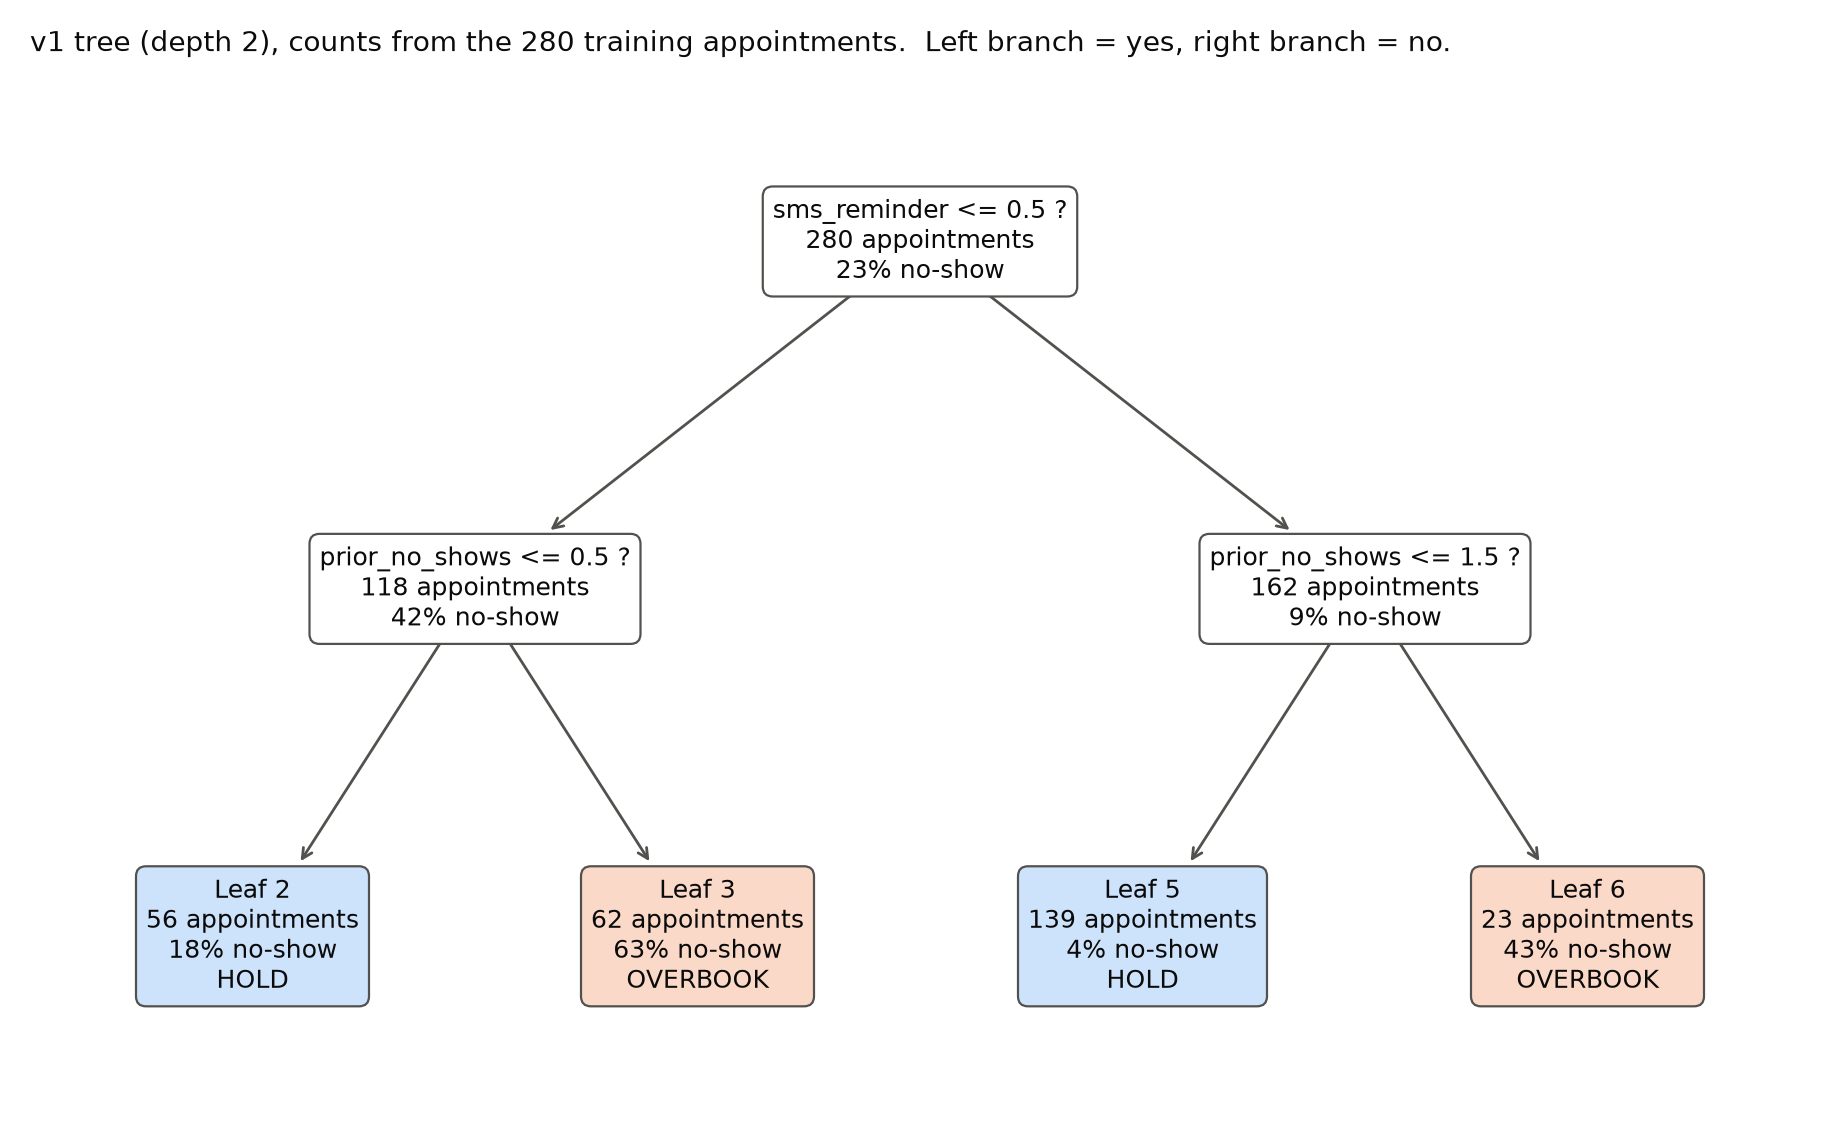
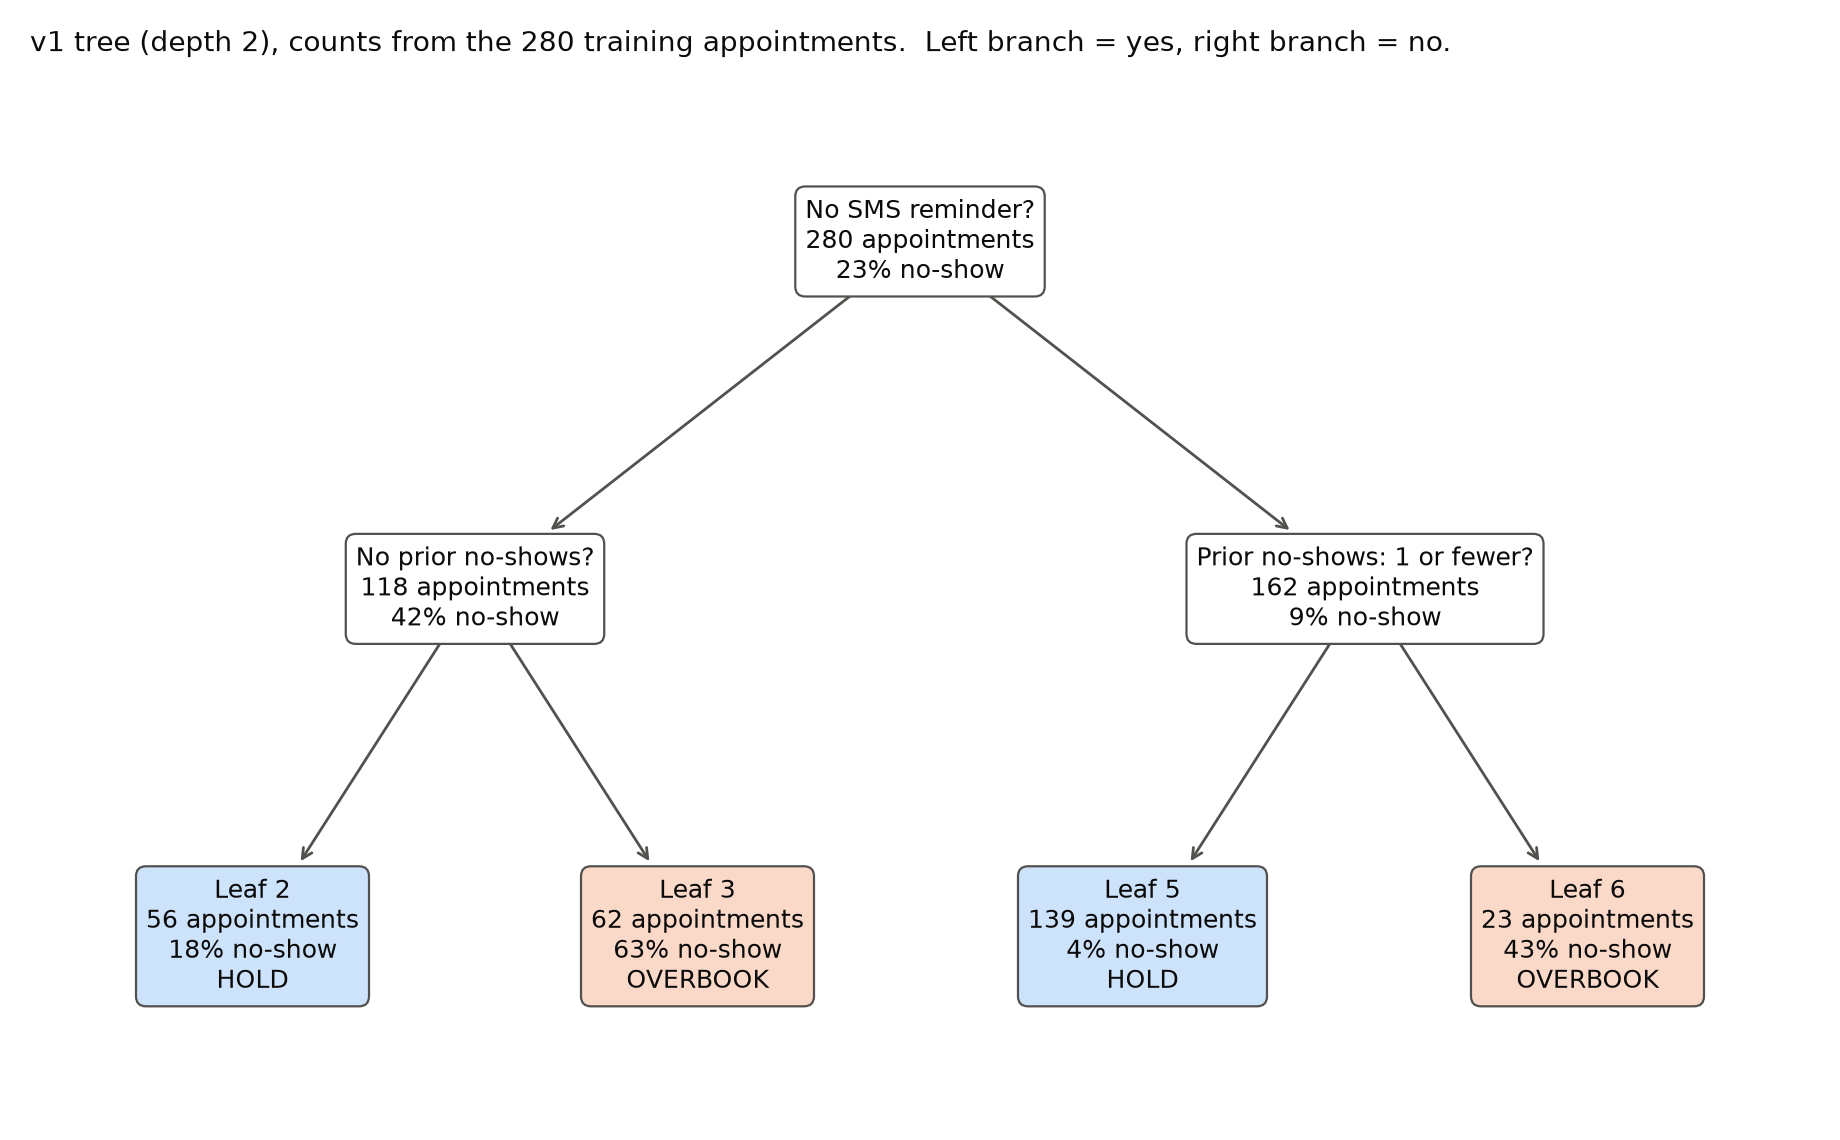
Add slide-sized clinic charts and per-year values
Tree nodes now read as plain yes/no questions. Adds a compact tree picture,
a cost-per-appointment chart, and the yearly value of each policy.

Changed region(s): [[0.4027, 0.1535, 0.5886, 0.2763], [0.6505, 0.4605, 0.8364, 0.5219], [0.1549, 0.4605, 0.3408, 0.5219]]

diff --git a/decision_tree_clinic/analysis.py b/decision_tree_clinic/analysis.py
@@ -206,37 +206,86 @@ HOLD_FILL, OVERBOOK_FILL, SPLIT_FILL = "#cde2fb", "#fbd9c9", "#ffffff"
 plt.rcParams.update({"font.family": "DejaVu Sans", "text.color": INK})
 
 n_leaves = len(leaves)
-fig, ax = plt.subplots(figsize=(max(8.0, 2.3 * n_leaves), 1.9 * (v1.get_depth() + 1)), dpi=200)
-annotations = plot_tree(v1, feature_names=FEATURES, ax=ax, impurity=False, fontsize=9)
-# plot_tree also returns the "True"/"False" branch labels; drop them and keep
-# the node boxes, which come back in node-id order.
-branch_labels = [a for a in annotations if a.get_text().strip() in ("True", "False")]
-for a in branch_labels:
-    a.set_visible(False)
-node_boxes = [a for a in annotations if a not in branch_labels]
-assert len(node_boxes) == tree.node_count
-for i, ann in enumerate(node_boxes):
-    assert f"samples = {node_n[i]}" in ann.get_text(), "node order mismatch"
-    share = node_noshow[i] / node_n[i]
-    body = f"{node_n[i]} appointments\n{share:.0%} no-show"
-    if tree.children_left[i] == -1:
-        decision = "OVERBOOK" if node_pred[i] == 1 else "HOLD"
-        ann.set_text(f"Leaf {i}\n{body}\n{decision}")
-        fill = OVERBOOK_FILL if node_pred[i] == 1 else HOLD_FILL
-    else:
-        ann.set_text(f"{node_rule(i)} ?\n{body}")
-        fill = SPLIT_FILL
-    ann.set_color(INK)
-    ann.set_bbox(dict(boxstyle="round,pad=0.4", facecolor=fill, edgecolor=MUTED,
-                      linewidth=0.8))
-    if ann.arrow_patch is not None:
-        ann.arrow_patch.set_color(MUTED)
-ax.set_title(f"v1 tree (depth {v1.get_depth()}), counts from the {len(train)} training "
-             "appointments.  Left branch = yes, right branch = no.",
-             loc="left", fontsize=10, color=INK)
-fig.tight_layout()
-fig.savefig(OUT / "tree.png", facecolor="white")
-plt.close(fig)
+
+
+def node_question(i):
+    """The split at node i as a plain yes/no question. Yes goes left."""
+    feature, threshold = FEATURES[tree.feature[i]], tree.threshold[i]
+    if feature == "sms_reminder":
+        return "No SMS reminder?"
+    if feature == "new_patient":
+        return "Returning patient?"
+    if feature == "prior_no_shows":
+        most = int(np.floor(threshold))
+        return "No prior no-shows?" if most == 0 else f"Prior no-shows: {most} or fewer?"
+    label = {"lead_time_days": "Lead time (days)", "age": "Age",
+             "distance_miles": "Distance (miles)",
+             "appointment_hour": "Appointment hour"}[feature]
+    return f"{label} at most {threshold:g}?"
+
+
+def draw_tree(filename, figsize, dpi, font, title):
+    fig, ax = plt.subplots(figsize=figsize, dpi=dpi)
+    annotations = plot_tree(v1, feature_names=FEATURES, ax=ax, impurity=False, fontsize=font)
+    # plot_tree also returns the "True"/"False" branch labels; drop them and keep
+    # the node boxes, which come back in node-id order.
+    branch_labels = [a for a in annotations if a.get_text().strip() in ("True", "False")]
+    for a in branch_labels:
+        a.set_visible(False)
+    node_boxes = [a for a in annotations if a not in branch_labels]
+    assert len(node_boxes) == tree.node_count
+    for i, ann in enumerate(node_boxes):
+        assert f"samples = {node_n[i]}" in ann.get_text(), "node order mismatch"
+        share = node_noshow[i] / node_n[i]
+        body = f"{node_n[i]} appointments\n{share:.0%} no-show"
+        if tree.children_left[i] == -1:
+            decision = "OVERBOOK" if node_pred[i] == 1 else "HOLD"
+            ann.set_text(f"Leaf {i}\n{body}\n{decision}")
+            fill = OVERBOOK_FILL if node_pred[i] == 1 else HOLD_FILL
+        else:
+            ann.set_text(f"{node_question(i)}\n{body}")
+            fill = SPLIT_FILL
+        ann.set_color(INK)
+        ann.set_bbox(dict(boxstyle="round,pad=0.4", facecolor=fill, edgecolor=MUTED,
+                          linewidth=0.8))
+        if ann.arrow_patch is not None:
+            ann.arrow_patch.set_color(MUTED)
+    ax.set_title(title, loc="left", fontsize=font + 1, color=INK)
+    fig.tight_layout()
+    fig.savefig(OUT / filename, facecolor="white")
+    plt.close(fig)
+
+
+# Full-size picture, and a compact one with larger text for a small spot on a slide.
+draw_tree("tree.png", (max(8.0, 2.3 * n_leaves), 1.9 * (v1.get_depth() + 1)), 200, 9,
+          f"v1 tree (depth {v1.get_depth()}), counts from the {len(train)} training "
+          "appointments.  Left branch = yes, right branch = no.")
+draw_tree("tree_compact.png", (1.6 * n_leaves, 1.05 * (v1.get_depth() + 1)), 300, 8,
+          f"Counts from the {len(train)} training appointments. Left = yes, right = no.")
+
+# ---------------------------------------------------------------- value chart
+BLUE, ORANGE, GRID = "#2a78d6", "#eb6834", "#e4e3df"
+with plt.rc_context({"font.size": 9, "axes.edgecolor": MUTED, "axes.labelcolor": INK,
+                     "xtick.color": INK, "ytick.color": MUTED,
+                     "axes.spines.top": False, "axes.spines.right": False}):
+    costs = [-base_m["value_per_appointment"], -v1_m["value_per_appointment"]]
+    fig, ax = plt.subplots(figsize=(4.0, 3.0), dpi=300)
+    bars = ax.bar(["Baseline\nhold every slot", "v1\noverbook predicted no-shows"], costs,
+                  width=0.5, color=[ORANGE, BLUE])
+    for bar, cost in zip(bars, costs):
+        ax.text(bar.get_x() + bar.get_width() / 2, cost + max(costs) * 0.03, f"${cost:,.2f}",
+                ha="center", va="bottom", fontsize=10, fontweight="bold", color=INK)
+    ax.set_ylim(0, max(costs) * 1.2)
+    ax.yaxis.set_major_formatter(plt.FuncFormatter(lambda v, _: f"${v:,.0f}"))
+    ax.grid(axis="y", color=GRID, linewidth=0.8)
+    ax.set_axisbelow(True)
+    ax.tick_params(axis="x", length=0)
+    ax.set_ylabel("Cost per appointment")
+    fig.suptitle(f"Cost per appointment ({len(test)} test appointments)",
+                 x=0.03, ha="left", fontsize=10, fontweight="bold")
+    fig.tight_layout()
+    fig.savefig(OUT / "cost_per_appointment.png", facecolor="white")
+    plt.close(fig)
 
 # ---------------------------------------------------------------- results file
 lines = []
@@ -318,8 +367,10 @@ gain_each = v1_m["value_per_appointment"] - base_m["value_per_appointment"]
 add(f"\n- v1 minus baseline, {len(test)} test appointments: ${gain_total:,.0f}")
 add(f"- v1 minus baseline, per appointment: ${gain_each:,.2f}")
 if ANNUAL_APPOINTMENTS:
-    add(f"- Per year at an assumed {ANNUAL_APPOINTMENTS:,} appointments: "
-        f"${gain_each * ANNUAL_APPOINTMENTS:,.0f}")
+    add(f"\nPer year, at an assumed {ANNUAL_APPOINTMENTS:,} appointments:\n")
+    add(f"- Baseline: ${base_m['value_per_appointment'] * ANNUAL_APPOINTMENTS:,.0f}")
+    add(f"- v1: ${v1_m['value_per_appointment'] * ANNUAL_APPOINTMENTS:,.0f}")
+    add(f"- v1 minus baseline: ${gain_each * ANNUAL_APPOINTMENTS:,.0f}")
 else:
     add("- Per year: not computed. Set ANNUAL_APPOINTMENTS at the top of `analysis.py` to "
         "the yearly volume you assume; the figure is the per-appointment gain times that volume.")

diff --git a/README.md b/README.md
@@ -44,7 +44,7 @@ on the slides, plus `outputs/auction_profit.png`.
 | Folder | Chart | Detail file |
 |---|---|---|
 | `regression_used_cars/` | `predicted_vs_actual_test.png` (and a `_compact` version with larger text) | `auction_decisions.csv` |
-| `decision_tree_clinic/` | `tree.png` | none |
+| `decision_tree_clinic/` | `tree.png` (and a `_compact` version), `cost_per_appointment.png` | none |
 | `clustering_gym/` | `elbow_train_test.png` | `member_segments.csv` |
 
 ## Choices that apply to all three

diff --git a/decision_tree_clinic/outputs/results.md b/decision_tree_clinic/outputs/results.md
@@ -94,4 +94,9 @@ Cost table: overbooked and patient came $-60, held and patient missed $-120, oth
 
 - v1 minus baseline, 120 test appointments: $1,440
 - v1 minus baseline, per appointment: $12.00
-- Per year at an assumed 10,000 appointments: $120,000
+
+Per year, at an assumed 10,000 appointments:
+
+- Baseline: $-270,000
+- v1: $-150,000
+- v1 minus baseline: $120,000
